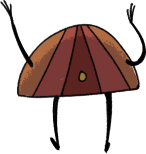
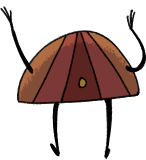
OperatingSystemApp: add daemon 8 and 9 animations.
https://phabricator.endlessm.com/T24897

diff --git a/com.endlessm.OperatingSystemApp/app/index.html b/com.endlessm.OperatingSystemApp/app/index.html
@@ -18,7 +18,7 @@
     <div id="OS_daemon_8"
          class="Animation"
          style="left: 412px; top: 19px;"
-         data-frames="[96]">
+         data-frames="[800, 100, 100, 100, 100, 200, 200, 300, 100, 100]">
     </div>
 
     <div id="OS_daemon_5"
@@ -30,7 +30,7 @@
     <div id="OS_daemon_9"
          class="Animation"
          style="left: 284px; top: 206px;"
-         data-frames="[96]">
+         data-frames="[800, 100, 100, 100, 100, 300, 100, 100, 100, 100, 100, 100]">
     </div>
 
     <div id="OS_daemon_1"
